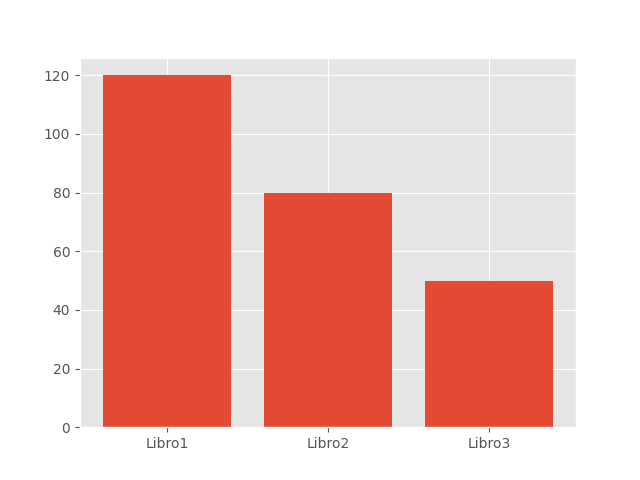
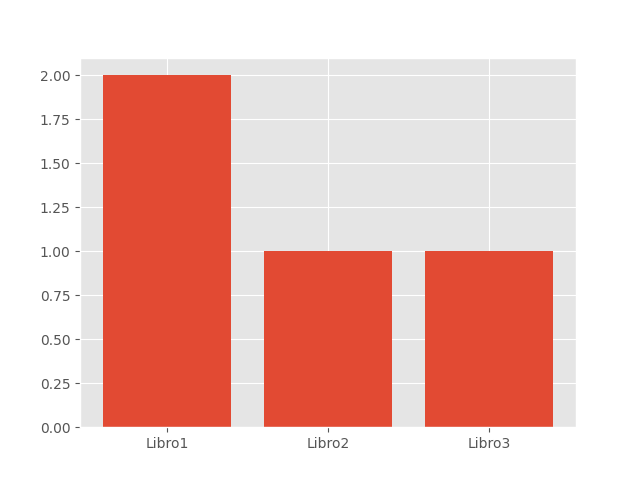
v1.01

diff --git a/panel.py b/panel.py
@@ -767,7 +767,7 @@ class PanelControl(QMainWindow):
         sql2="SELECT ISBM,Titulo,F_Publicacion,num_pags,Editorial,Genero,Ejemplares FROM Libros"
         res= consulta(sql2).fetchall()
         self.tabla.setSelectionBehavior(QAbstractItemView.SelectRows)
-        colum=len(res[0])
+        colum=len(res)
         sql3="SELECT Activo FROM Libros"
         eliminar=consulta(sql3).fetchone()
         self.tableWidget = self.panel.tabla_Libros
@@ -811,7 +811,7 @@ class PanelControl(QMainWindow):
         sql2="SELECT idPrestamo,idClientes,idUsuario,ISBM,F_d_sal,F_d_ent,F_d_enReal FROM Prestamo"
         res= consulta(sql2).fetchall()
         self.tabla.setSelectionBehavior(QAbstractItemView.SelectRows)
-        colum=len(res[0])
+        colum=len(res)
         sql3="SELECT Activo FROM Prestamo"
         eliminar=consulta(sql3).fetchone()
         self.tableWidget = self.panel.tabla_Prestamos
@@ -1712,9 +1712,62 @@ class PanelControl(QMainWindow):
         PAtotales =re.sub("[()]","",Eliminar4)
         self.panel.librosPrestLabel.setText(PAtotales)
 
+        #Datos de las barras
+        qry="SELECT ISBM FROM Prestamo WHERE ACTIVO='ACTIVO'"
+        xd=consulta(qry).fetchall()
+        con=0
+        datose=[]
+        lib=[]
+        for i in xd:
+            Eliminar1=str(i)
+            Eliminar2=re.sub(",","",Eliminar1)
+            Eliminar3=re.sub("'","",Eliminar2)
+            Eliminar4=re.sub("()","",Eliminar3)
+            ipn =re.sub("[()]","",Eliminar4)
+            if i!=xd[con]:
+                qry2="SELECT COUNT(idPrestamo),ISBM FROM Prestamo WHERE ISBM=? AND ACTIVO='ACTIVO'"
+                param=(ipn,)
+                res=consulta(qry2,param).fetchone()
+                Eliminar1=str(res)
+                Eliminar2=re.sub(",","",Eliminar1)
+                Eliminar3=re.sub("'","",Eliminar2)
+                Eliminar4=re.sub("()","",Eliminar3)
+                Estot =re.sub("[()]","",Eliminar4)
+                print(Estot)
+                print(Estot[0])
+                datose.append(res[0])
+                lib.append(res[1])
+                print(res[1])
+                con+=1
+
+        dt3=0
+        dt2=0
+        dt=0
+
+        log=len(datose)
+
+        if datose!=[]:
+            dt=int(max(datose))
+            datose.remove(dt)
+
+        if log>1:
+            dt2=int(max(datose))
+            datose.remove(dt2)
+       
+        if log>2:
+            dt3=int(max(datose))
+            datose.remove(dt3)
+
+
+        qry5="SELECT COUNT(idPrestamo) FROM Prestamo WHERE F_d_ent=F_d_enReal AND ACTIVO='ACTIVO'"
+        print(consulta(qry5).fetchone())
+
+        qry6="SELECT COUNT(idPrestamo) FROM Prestamo WHERE ACTIVO='ACTIVO'"
+        print(consulta(qry6).fetchone())
+
 
         self.creaDona(30, 70)
-        self.creaBarras("Libro1", 120, "Libro2", 80, "Libro3", 50)
+        self.creaBarras("Libro1", dt, "Libro2", dt2, "Libro3", dt3)
 
     # Crea un png del grafico de barras
     def creaBarras(self, libro1, numero1, libro2, numero2, libro3, numero3):

diff --git a/main.py b/main.py
@@ -65,49 +65,7 @@ class MainWindow(QMainWindow):
         self.stacked_widget.widget(4).ClaveRevelar_4.stateChanged.connect(self.ver_claveOtraVez)
 
         # Te lleva al incio despues de poner una nueva clave
-        self.stacked_widget.widget(4).Seguir.clicked.connect(self.restablecerClave)
-        consul="SELECT COUNT(*) FROM Prestamo WHERE ISBM=?"
-        param=("213de",)
-        da="SELECT ISBM FROM Prestamo"
-        dato=consulta(da).fetchall()
-        for i in range(len(dato)):
-            print(i)
-            print(dato[i])
-            print(dato[i-1])
-            if dato[i] != dato[i-1]:
-                Eliminar1=str(dato[i])
-                Eliminar2=re.sub(",","",Eliminar1)
-                Eliminar3=re.sub("'","",Eliminar2)
-                Eliminar4=re.sub("()","",Eliminar3)
-                vddfi =re.sub("[()]","",Eliminar4)
-                co="SELECT COUNT(ISBM) FROM Prestamo WHERE ISBM=?"
-                param2=(vddfi,)
-                h=consulta(co,param2).fetchall()
-                print(h)
-            
-
-        #print(consulta(consul,param).fetchone())
-        consul0="SELECT COUNT(idPrestamo) FROM Prestamo WHERE ACTIVO='ACTIVO' AND idClientes=1"
-        consul2="SELECT COUNT(idUsuario) FROM Usuarios WHERE ACTIVO='ACTIVO'"
-        consul3="SELECT COUNT(idAutores) FROM Autores WHERE ACTIVO='ACTIVO'"
-        print(consulta(consul0).fetchone())
-        qry="SELECT ISBM FROM Prestamo"
-        xd=consulta(qry).fetchall()
-        print(xd)
-        con=-1
-        for i in xd:
-            Eliminar1=str(i)
-            Eliminar2=re.sub(",","",Eliminar1)
-            Eliminar3=re.sub("'","",Eliminar2)
-            Eliminar4=re.sub("()","",Eliminar3)
-            ipn =re.sub("[()]","",Eliminar4)
-            if i!=xd[con]:
-                qry2="SELECT COUNT(?) FROM Prestamo WHERE ISBM=?"
-                param=(ipn,ipn,)
-                print(consulta(qry2,param).fetchall())
-            con+=1
-        #print(consulta(consul2).fetchone())
-        #print(consulta(consul3).fetchone())
+        self.stacked_widget.widget(4).Seguir.clicked.connect(self.restablecerClave)           
 
         # Contador de veces que se escribio la clave de usuario incorrectamente
         self.contClave = 0
